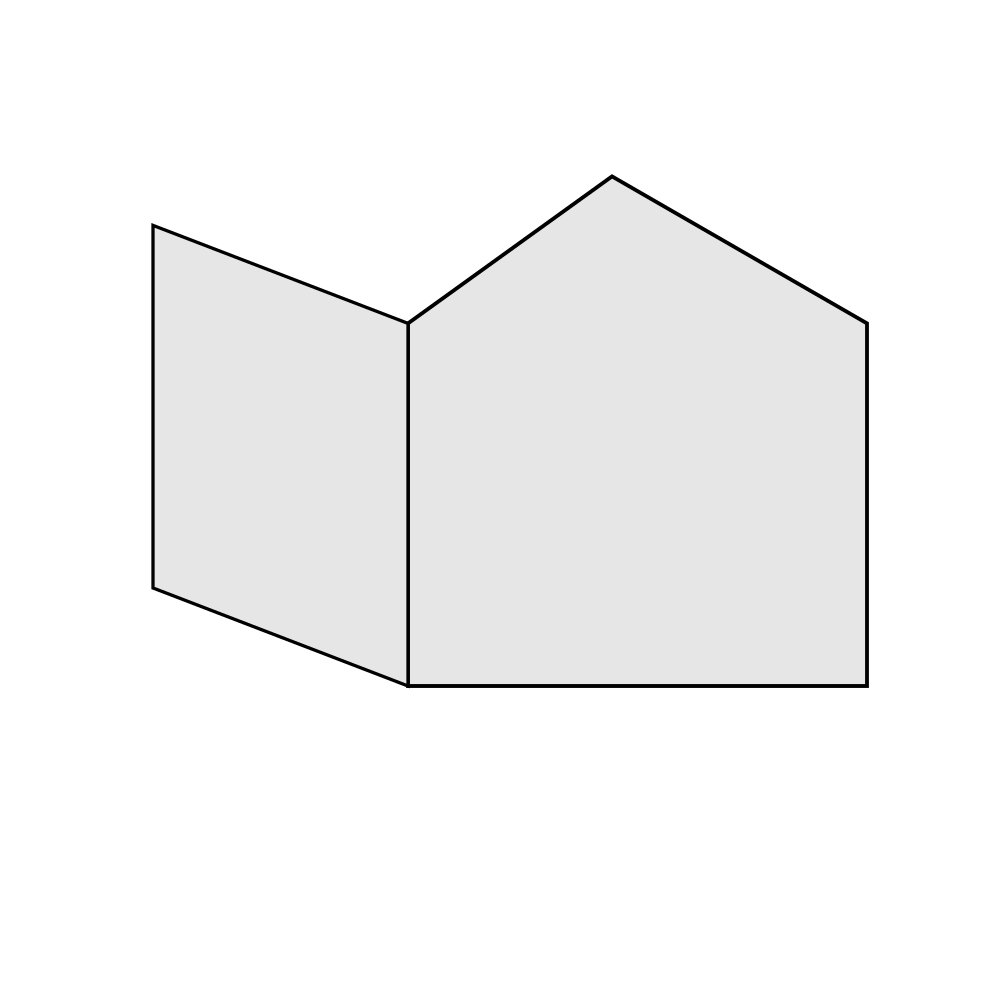
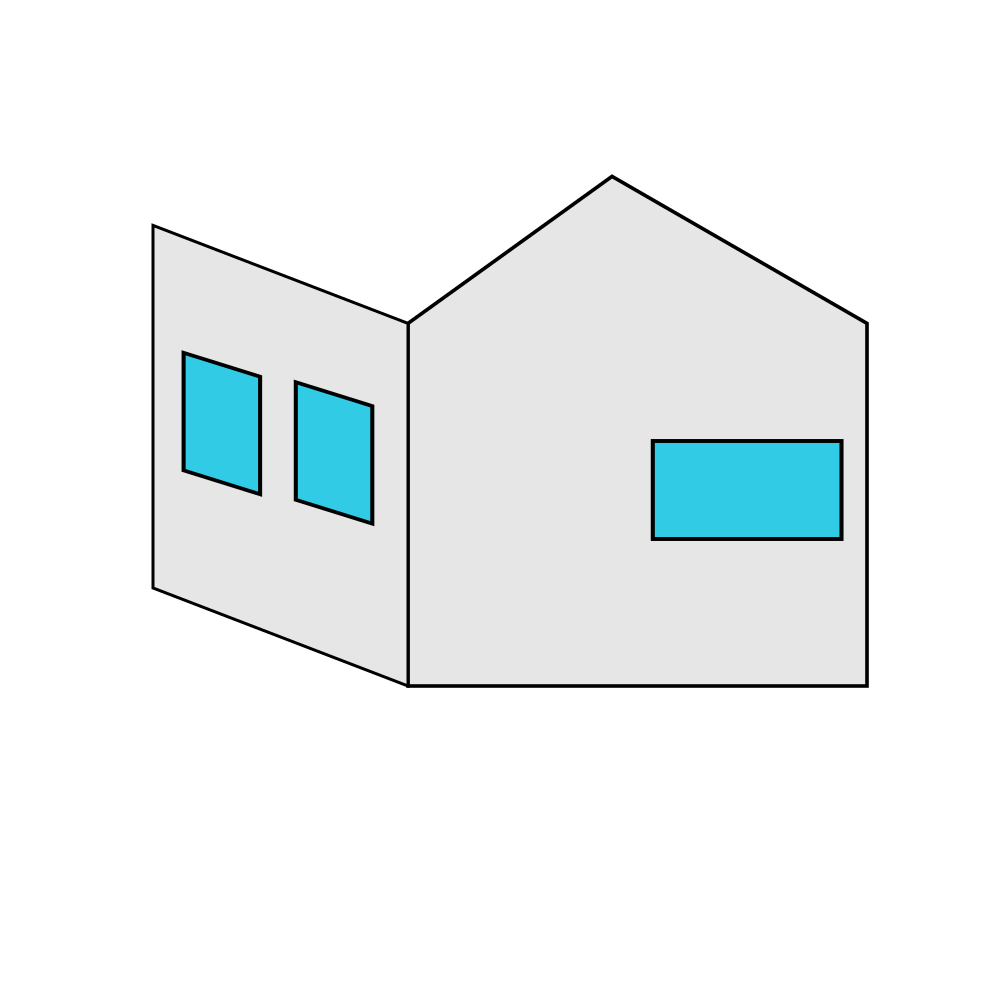
windows

Changed region(s): [[0.155, 0.341, 0.372, 0.527], [0.651, 0.434, 0.868, 0.558]]

diff --git a/house.py b/house.py
@@ -1,5 +1,5 @@
 import cairo
-#import math
+import math
 import random
 
 surface = cairo.ImageSurface(cairo.FORMAT_ARGB32, 1000, 1000)
@@ -51,8 +51,33 @@ def draw_base2(ctx):
     ctx.set_line_width(random.uniform(2, 4))  
     ctx.stroke()
 
+def draw_window(ctx, x, y, w, h, angle):
+    ctx.save()
+    ctx.scale(1.02, 0.98)
+    # Translate the context to the desired position
+    ctx.translate(x, y)
+    # Apply the shear transformation for tilting
+    ctx.transform(cairo.Matrix(1, math.tan(math.radians(angle)), 0, 1, 0, 0))
+    # Draw the window
+    ctx.rectangle(0, 0, w, h)
+    ctx.set_source_rgb(50/255,203/255, 230/255)  # Light blue for window
+    ctx.fill_preserve()
+    ctx.set_source_rgb(0, 0, 0)
+    ctx.set_line_width(4) 
+    ctx.stroke()
+    ctx.restore()
+
+
 # Draw the walls with hand-drawn effect
 draw_base1(ctx)
 draw_base2(ctx)
+
+# Draw windows on front wall
+draw_window(ctx, 180, 360, 75, 120, 18)  # Right window
+draw_window(ctx, 290, 390, 75, 120, 18)    # Door window
+draw_window(ctx, 640, 450, 185, 100, 0)  # Left window
+
+   
+
 
 surface.write_to_png("3D-house.png")

diff --git a/tempCodeRunnerFile.py b/tempCodeRunnerFile.py
@@ -1,0 +1,1 @@
+surface.write_to_png("3D-house.png")
